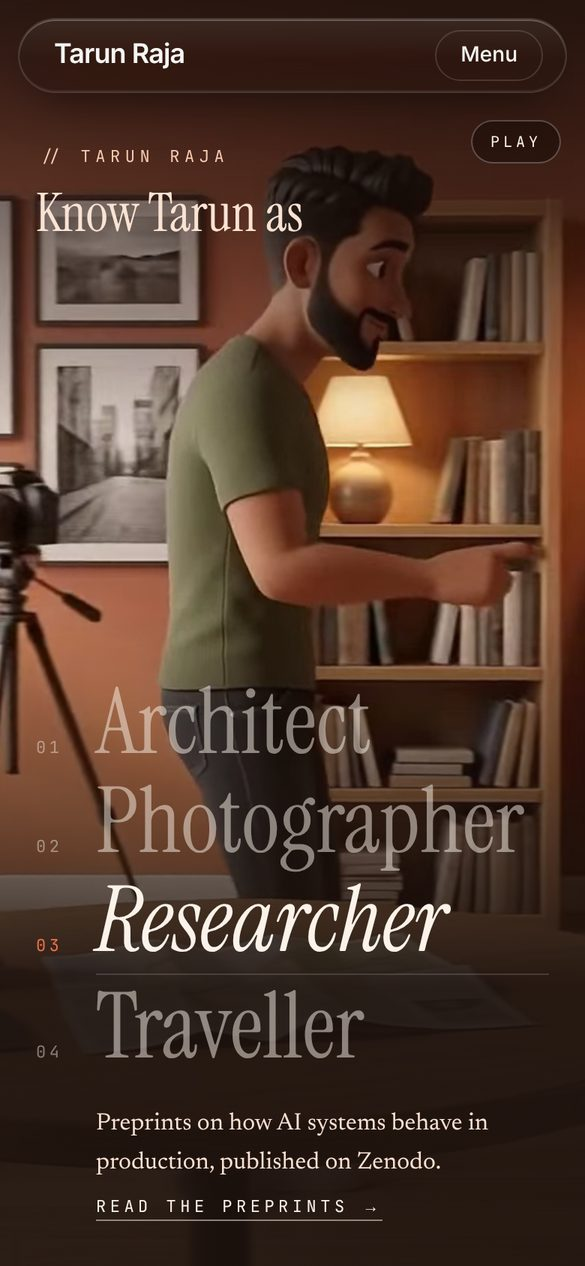
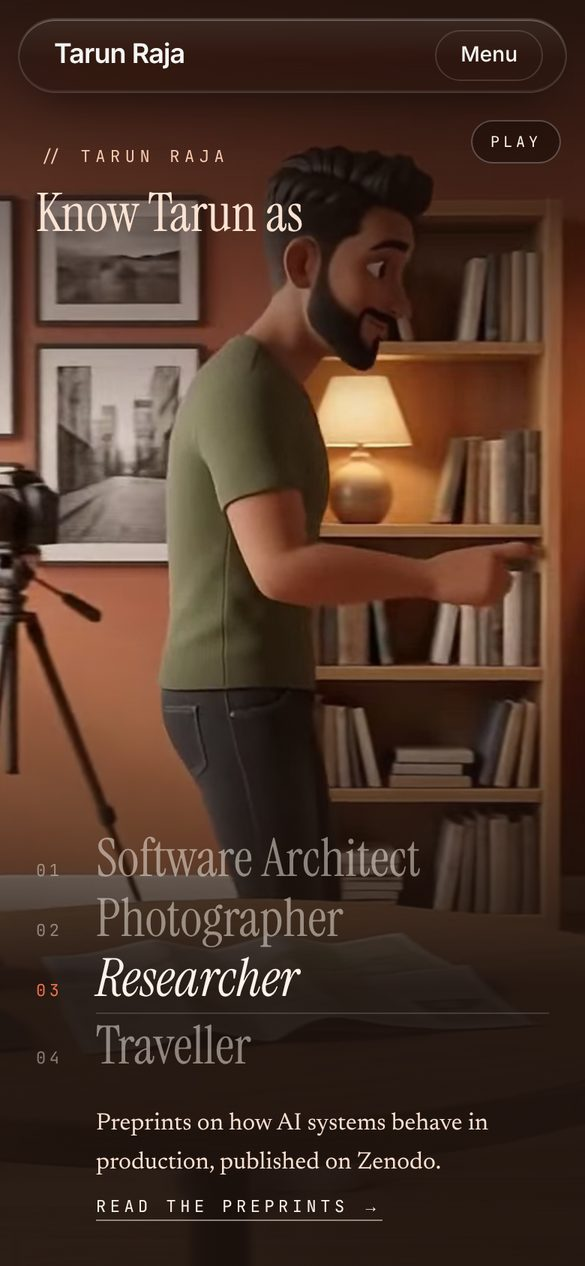
Rename prism's first stop to "Software Architect"
The label, its test, the admin summary and the docs now say Software
Architect. The longer label wrapped to two lines on portrait phones and
nudged the list each time it lit up, so the labels now size by the
narrower of viewport height and width and never wrap: one line from a
320px phone to desktop, with desktop sizes unchanged. Doc screenshots
and the admin thumbnail are retaken.

Claude-Session: https://claude.ai/code/session_01AxAjPPZxNN2QXStDuyQG73

diff --git a/__tests__/prismStations.test.ts b/__tests__/prismStations.test.ts
@@ -1,5 +1,5 @@
 /**
- * The prism landing lights up "Architect", "Photographer", "Researcher" or
+ * The prism landing lights up "Software Architect", "Photographer", "Researcher" or
  * "Traveller" in step with the walk video, and jumps the video when one is
  * picked. These hold the timings to the shape that needs: four stops, in
  * walk order, covering the whole loop with no gap or overlap, each jump
@@ -9,7 +9,7 @@ import { PRISM_LOOP_SECONDS, PRISM_STATIONS, stationIndexAt, stationProgressAt }
 
 describe('prism stations', () => {
   it('are the four sides of Tarun, in the order he walks past them', () => {
-    expect(PRISM_STATIONS.map((s) => s.label)).toEqual(['Architect', 'Photographer', 'Researcher', 'Traveller']);
+    expect(PRISM_STATIONS.map((s) => s.label)).toEqual(['Software Architect', 'Photographer', 'Researcher', 'Traveller']);
   });
 
   it('tile the loop exactly: no gaps, no overlaps', () => {

diff --git a/components/home/prism/PrismLanding.tsx b/components/home/prism/PrismLanding.tsx
@@ -184,7 +184,7 @@ export function PrismLanding() {
                       0{index + 1}
                     </span>
                     <span
-                      className={`font-[family-name:var(--font-display)] leading-[1.02] transition-all duration-500 text-[clamp(2.1rem,7.2vh,4.75rem)] ${
+                      className={`font-[family-name:var(--font-display)] leading-[1.02] transition-all duration-500 whitespace-nowrap text-[clamp(1.75rem,min(7.2vh,9vw),4.75rem)] ${
                         isActive ? "text-[#fbf3ea] italic" : "text-[#fbf3ea]/50 group-hover:text-[#fbf3ea]/80"
                       }`}
                     >

diff --git a/components/home/prism/PrismHome.tsx b/components/home/prism/PrismHome.tsx
@@ -6,7 +6,7 @@ import { About, Contact, Experience, Projects } from "@/components/home/terracot
  * "prism": one person, four sides. A full-screen "Know Tarun as…" landing
  * where the avatar walks from desk to camera to books to café (PrismLanding),
  * then terracotta's About / Experience / Projects / Contact, which is where
- * "Architect" leads. Ids are prefixed so they never collide with terracotta's
+ * "Software Architect" leads. Ids are prefixed so they never collide with terracotta's
  * hidden copies on the same page.
  * Screenshots: docs/home-designs/README.md#prism
  */

diff --git a/lib/featureFlags.ts b/lib/featureFlags.ts
@@ -34,7 +34,7 @@ export const HOME_DESIGNS = [
     name: 'prism',
     label: 'Prism',
     summary:
-      '"Know Tarun as…": the avatar walks from desk to camera to books to café, lighting up Architect, Photographer, Researcher and Traveller.',
+      '"Know Tarun as…": the avatar walks from desk to camera to books to café, lighting up Software Architect, Photographer, Researcher and Traveller.',
     thumbnail: '/home-designs/prism.jpg',
     nav: 'glass',
   },

diff --git a/lib/prismStations.ts b/lib/prismStations.ts
@@ -27,7 +27,7 @@ export interface PrismStation {
 export const PRISM_STATIONS: readonly PrismStation[] = [
   {
     key: 'architect',
-    label: 'Architect',
+    label: 'Software Architect',
     scene: 'At his standing desk, coding on two monitors',
     blurb: 'A decade designing payment platforms at JP Morgan Chase: cloud-native, fault-tolerant, shipped by teams he leads.',
     href: '#prism-about',

diff --git a/docs/home-designs/README.md b/docs/home-designs/README.md
@@ -7,7 +7,7 @@ chosen in the admin UI and takes effect on the next page load, with no redeploy.
 |--------|------------|-------------|
 | [Terracotta](#terracotta) | `terracotta` | **Default.** Editorial: terracotta hero with the animated desk scene, glass nav |
 | [Midnight](#midnight) | `midnight` | The original: dark navy gradient hero card with portrait and expertise cards |
-| [Prism](#prism) | `prism` | "Know Tarun as…": the avatar walks desk → camera → books → café; Architect, Photographer, Researcher, Traveller |
+| [Prism](#prism) | `prism` | "Know Tarun as…": the avatar walks desk → camera → books → café; Software Architect, Photographer, Researcher, Traveller |
 
 ## How to switch
 
@@ -88,11 +88,11 @@ video of the avatar walking through one long loft: from his standing desk,
 past his camera on its tripod, past the bookshelf (he reaches for a book), to
 a café table with a coffee.
 
-- **The four stops** are Architect, Photographer, Researcher and Traveller,
+- **The four stops** are Software Architect, Photographer, Researcher and Traveller,
   in the order he walks past them. The one he is at lights up as he reaches
   it, with a line showing progress through that stop. Tapping one jumps the
   walk there; while paused it shows that stop's still.
-- **Where they lead:** Architect → the About / Experience / Projects /
+- **Where they lead:** Software Architect → the About / Experience / Projects /
   Contact sections below (shared with terracotta); Researcher →
   `/publications`. Photographer and Traveller say "coming soon" until those
   pages exist. All of this, and the timings, live in `lib/prismStations.ts`

diff --git a/CLAUDE.md b/CLAUDE.md
@@ -64,7 +64,7 @@ Prod     → AWS RDS PostgreSQL 16 (db.t4g.micro in private VPC)
 | `components/admin/HomeDesignSettings.tsx` | Admin → Content → Settings picker; saves via `PATCH /admin/settings` |
 | `components/home/terracotta/` | **`terracotta`** (default) — editorial redesign: desk-scene video hero, numbered sections; `TopNav` becomes a liquid-glass pill for it |
 | `components/home/midnight/` | **`midnight`** — the original homepage: dark navy gradient hero card |
-| `components/home/prism/`, `lib/prismStations.ts` | **`prism`** — "Know Tarun as…": avatar walk video (desk → camera → books → café) lighting up Architect / Photographer / Researcher / Traveller; stop timings and links in `prismStations.ts` |
+| `components/home/prism/`, `lib/prismStations.ts` | **`prism`** — "Know Tarun as…": avatar walk video (desk → camera → books → café) lighting up Software Architect / Photographer / Researcher / Traveller; stop timings and links in `prismStations.ts` |
 | `docs/home-designs/README.md` | Every homepage design with its flag value and desktop/mobile screenshots, and how to switch or add one |
 | `app/chat/page.tsx` | AI chat UI — streams from `NEXT_PUBLIC_CHAT_API` |
 | `app/labs/page.tsx` | AI Labs / Agent Studio UI |
